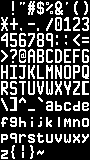
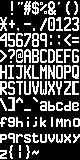
Change character size to 8x16, screen size to 80x30

diff --git a/imageconvert.py b/imageconvert.py
@@ -7,30 +7,18 @@ out = open("charset.bin", "w")
 bytelist = []
 
 '''
-So basically what it should be is each of the top half bytes followed by
-each of the bottom half bytes
+so it's 16 bytes, the top row of 8 down the the bottom row, then the next char
 '''
 
 for row in range(0, 10):
      for col in range(0, 10):
-        #print("===========")
-        #print (row)
-        #print (col)
-        #print("===========")
-        for subcol in range (0, 9):
-            byte = 0
-            for subrow in range (0, 8):
-                pixel = (image[row*8+subrow,col*9+subcol,0])/255
-                byte = byte + (pixel << subrow)
-            #print (format(byte, 'b') + ", " + format(byte, 'x'))
-            bytelist.append(byte)
-        for subcol in range (0, 9):
-            byte = 0
-            for subrow in range (8, 16):
-                pixel = (image[row*8+subrow,col*9+subcol,0])/255
-                byte = byte + (pixel << (subrow-8))
-            #print (format(byte, 'b') + ", " + format(byte,  'x'))
-            bytelist.append(byte)
+          for subrow in range (16):
+               byte = 0
+               for position in range (8):
+                    pixel = (image[row*16+subrow,col*8+position,0])/255
+                    byte = byte + (pixel << position)
+               #print (format(byte, 'b').zfill(8) + ", " + format(byte,  'x'))
+               bytelist.append(byte)
 
 outbytes = bytearray(bytelist)
 out.write(outbytes)
